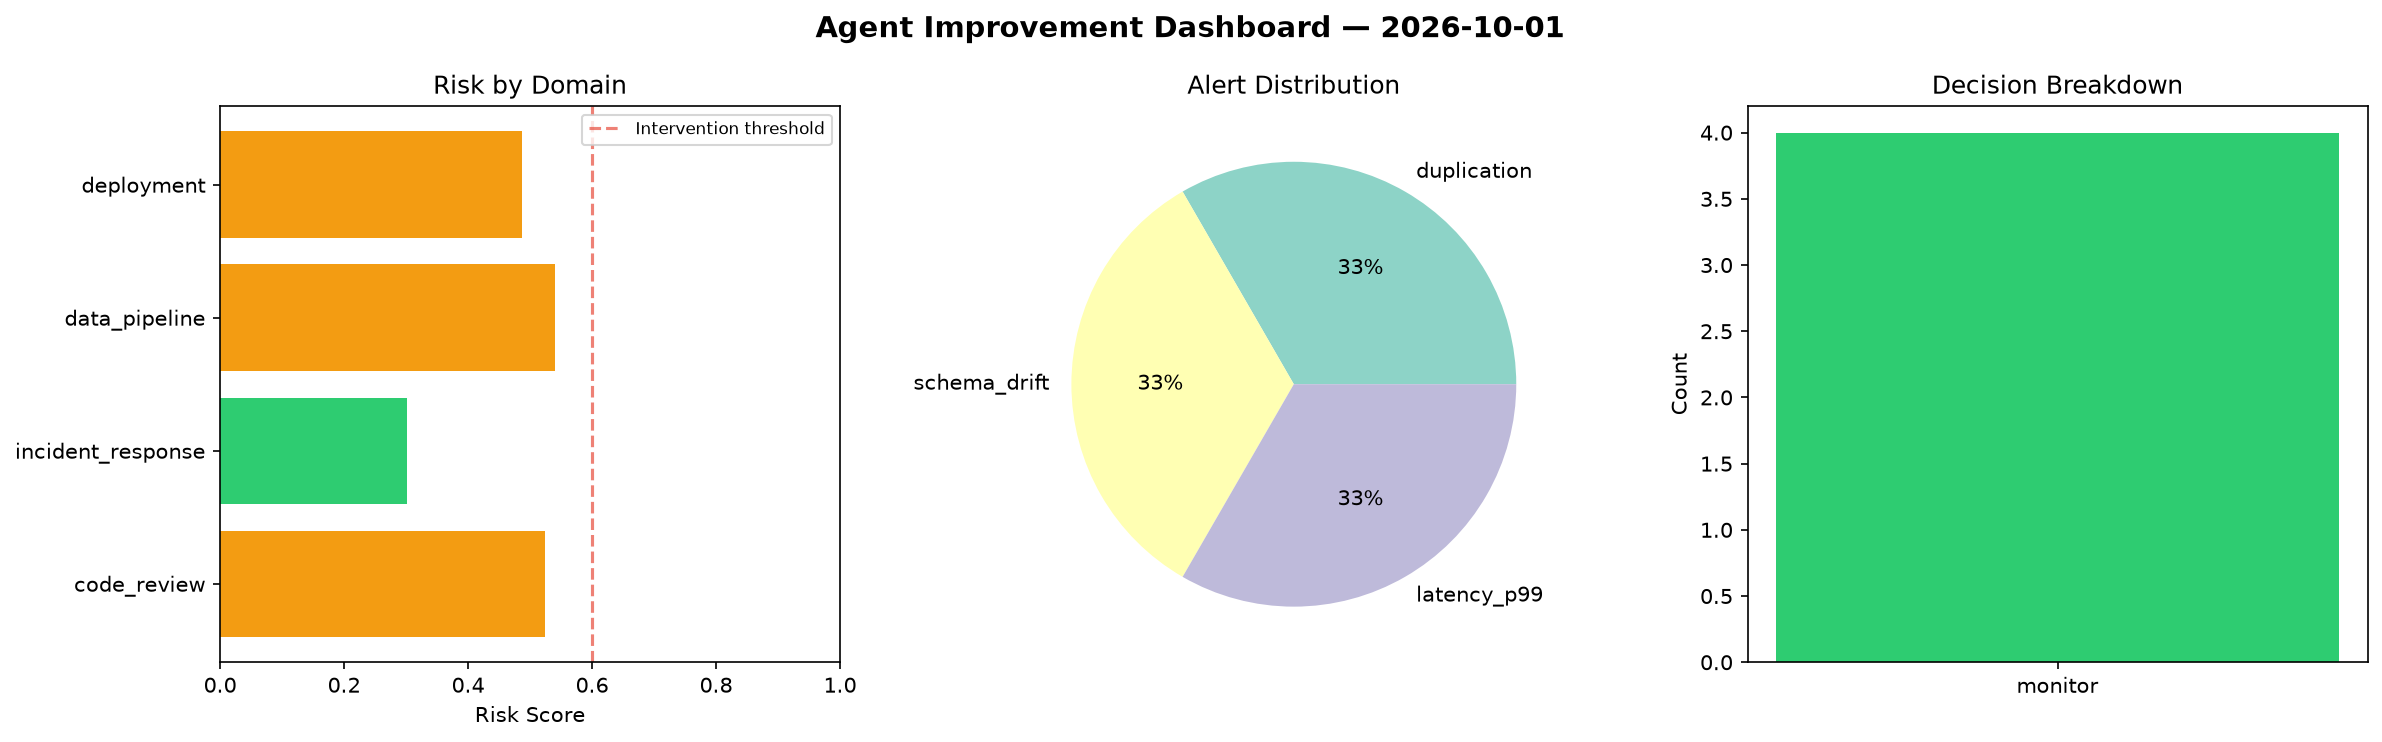
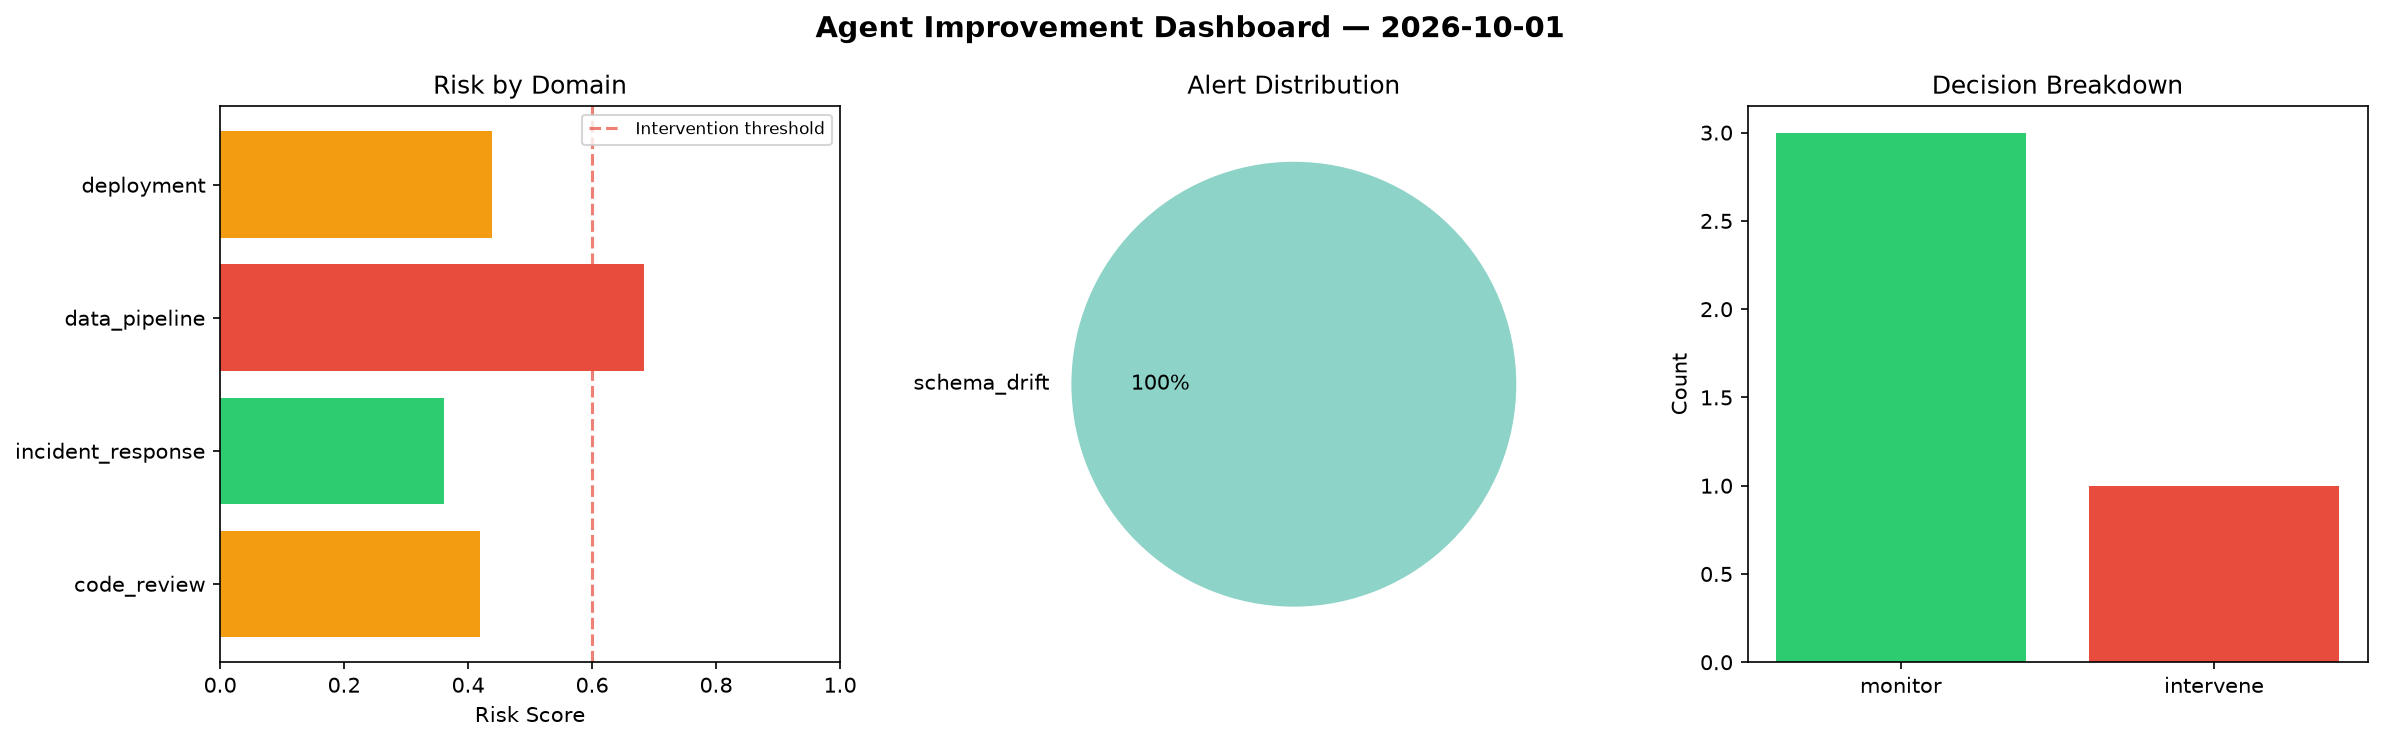
agent-improvement: daily cycle 2026-10-01T15:27

diff --git a/logs/2026-10-01.md b/logs/2026-10-01.md
@@ -1,6 +1,6 @@
 # Agent Improvement Report — 2026-10-01
 
-**Cycle ID:** `c8e86e53` | **Avg Risk:** 0.4628 | **Interventions:** 0/4
+**Cycle ID:** `752d4d1f` | **Avg Risk:** 0.4756 | **Interventions:** 1/4
 
 ![Dashboard](2026-10-01_dashboard.png)
 
@@ -10,18 +10,18 @@
 
 | Domain | Risk Score | Decision | Alerts |
 |--------|-----------|----------|--------|
-| code_review | 0.5233 | monitor | duplication |
-| incident_response | 0.3011 | monitor | none |
-| data_pipeline | 0.5402 | monitor | schema_drift |
-| deployment | 0.4865 | monitor | latency_p99 |
+| code_review | 0.4197 | monitor | none |
+| incident_response | 0.3616 | monitor | none |
+| data_pipeline | 0.6831 | intervene | schema_drift |
+| deployment | 0.4382 | monitor | none |
 
 ## Delta vs Yesterday
 
 | Domain | Today | Yesterday | Change |
 |--------|-------|-----------|--------|
-| code_review | 0.5233 | 0.5674 | 📉 -7.8% |
-| incident_response | 0.3011 | 0.5605 | 📉 -46.3% |
-| data_pipeline | 0.5402 | 0.6038 | 📉 -10.5% |
-| deployment | 0.4865 | 0.8068 | 📉 -39.7% |
+| code_review | 0.4197 | 0.5674 | 📉 -26.0% |
+| incident_response | 0.3616 | 0.5605 | 📉 -35.5% |
+| data_pipeline | 0.6831 | 0.6038 | 📈 13.1% |
+| deployment | 0.4382 | 0.8068 | 📉 -45.7% |
 
-**Refinement:** `{'adjustment': 'maintain', 'trend': 'improving', 'window': 4}`
+**Refinement:** `{'adjustment': 'tighten_thresholds', 'trend': 'degrading', 'window': 4}`
